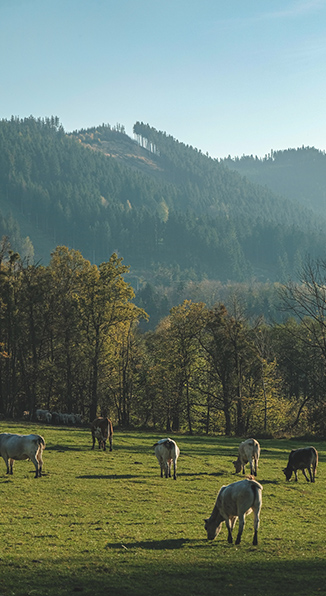
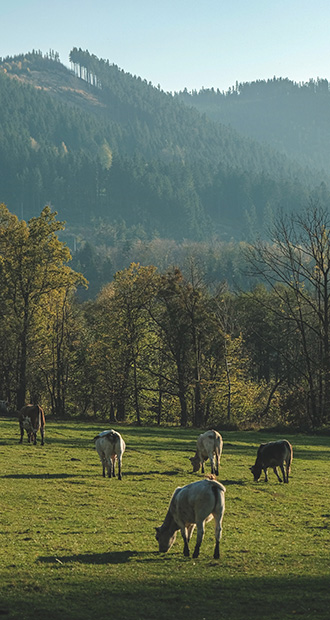
style: 修正圖片長度不夠 feat:修正地址差件失效

diff --git a/src/js/login.js b/src/js/login.js
@@ -36,6 +36,16 @@ $('#userMail').on('blur', () => {
     }
 })
 
+$('.userMail').on('blur', () => {
+    // console.log('object');
+    if ($('.userMail').val().search(emailRule) == -1) {
+        $('label[for="userMail"]').html("<h5>電子郵件<span>*e-mail格式不正確</span></h5>");
+    } else {
+        // console.log('c');
+        $('label[for="userMail"]').html("<h5>電子郵件</h5>");
+    }
+})
+
 // 驗證密碼格式
 $('#password').on('keyup', () => {
     let psd = $('#password').val();
@@ -203,14 +213,14 @@ function mail_cd() {
 // ============郵遞區號============
 // const twzipcode = new TWzipcode(".twzipcode");
 // twzipcode.destroy();
+let twzip = new TWzipcode('#twzipcode');
 
-$('#twzipcode').twzipcode({
-    countyName: 'county', // 設定取得縣市的name
-    districtName: 'district', // 設定取得鄉鎮市區的name
-    zipcodeName: 'zipcode', // 設定取得郵遞區號的name
-    onDistrictSelect: function () { console.log($('.zipcode').val()); },  //  選擇鄉鎮市區後執行
-
-});
+// $('#twzipcode').twzipcode({
+//     countyName: 'county', // 設定取得縣市的name
+//     districtName: 'district', // 設定取得鄉鎮市區的name
+//     zipcodeName: 'zipcode', // 設定取得郵遞區號的name
+//     // onDistrictSelect: function () { console.log($('.zipcode').val()); },  //  選擇鄉鎮市區後執行
+// });
 
 /*
 // Initialize

diff --git a/src/sass/layout/_login_register.scss b/src/sass/layout/_login_register.scss
@@ -15,10 +15,10 @@
 
   .shikaBlock {
     max-width: 326px;
-    height: 596px;
+    height: auto;
     background-image: url(../../img/material/login_block.jpg);
     background-repeat: no-repeat;
-    background-position: 0 0;
+    background-position:0 0;
     border-radius: 5px 0 0 5px;
     display: flex;
 
@@ -70,7 +70,7 @@
         padding: 10px 20px;
         width: 100%;
         min-width: 222px;
-        height: 50px;
+        height: 40px;
         background-color: #ededed;
         border-radius: 5px;
         margin-bottom: 5px;
@@ -193,7 +193,7 @@ div#back_bg {
   input {
     padding: 10px 20px;
     width: 100%;
-    height: 50px;
+    height: 40px;
     background-color: #ededed;
     border-radius: 5px;
     border: 1px solid #c4c4c4;
@@ -245,7 +245,7 @@ div#back_bg {
     select {
       font-size: $fs-xs;
       width: 219px;
-      height: 50px;
+      height: 40px;
       background-color: #ededed;
       border-radius: 5px;
       border: 1px solid #c4c4c4;
@@ -263,7 +263,7 @@ div#back_bg {
       display: none;
     }
 
-    .county {
+    select[name="county"] {
       margin-right: 8px;
     }
   }
@@ -298,7 +298,7 @@ div#back_bg {
 	input {
 	padding: 10px 20px;
 	width: 100%;
-	height: 50px;
+	height: 40px;
 	background-color: #ededed;
 	border-radius: 5px;
 	margin-bottom: 5px;

diff --git a/src/layout/login_register.html b/src/layout/login_register.html
@@ -57,6 +57,7 @@
 </div>
 </div>
 
+
 <script src="js/login.js"></script>
 <script>
     Vue.component('login', {
@@ -131,5 +132,6 @@
         $("#login_box").addClass("-off");
         $("#back_bg").addClass("-off");
     });
+
 
 </script>
